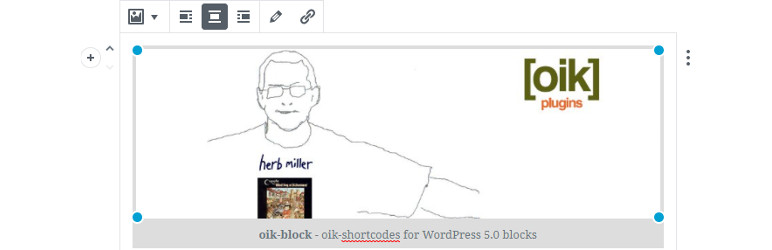
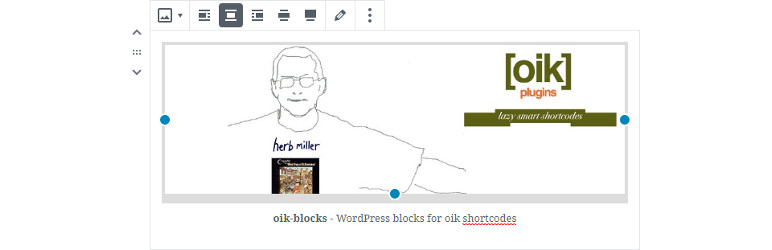
v0.0.0-alpha-20181125

diff --git a/oik-blocks.php b/oik-blocks.php
@@ -5,7 +5,7 @@
  * Description: WordPress Gutenberg blocks for oik shortcodes
  * Author: Herb Miller
  * Author URI: https://herbmiller.me/about/mick
- * Version: 0.0.0-alpha-20181120
+ * Version: 0.0.0-alpha-20181125
  * License: GPL3+
  * License URI: https://www.gnu.org/licenses/gpl-3.0.txt
  *

diff --git a/README.md b/README.md
@@ -4,9 +4,9 @@
 * Donate link: https://www.oik-plugins.com/oik/oik-donate/
 * Tags: gutenberg, shortcode, blocks, oik
 * Requires at least: 4.9.8
-* Tested up to: 5.0-beta5
+* Tested up to: 5.0-RC1
 * Gutenberg compatible: Yes
-* Stable tag: 0.0.0-alpha-20181120
+* Stable tag: 0.0.0-alpha-20181125
 * License: GPLv3 or later
 * License URI: https://www.gnu.org/licenses/gpl-2.0.html
 
@@ -76,10 +76,18 @@ Yes, it's dependent upon a number of other plugins:
 1. oik-blocks's address block
 
 ## Upgrade Notice 
+# 0.0.0-alpha-20181125 
+No longer displays the Preferred editor meta box
+
+
 # 0.0.0-alpha-20181120 
 Forked from oik-block which will now only implement opinions.
 
 ## Changelog 
+# 0.0.0-alpha-20181125 
+* Deleted: Remove preferred editor, opinions and other stuff that'll remain in oik-block https://github.com/bobbingwide/oik-blocks/issues/1
+* Changed: Updated banner and icon assets to oik-blocks
+
 # 0.0.0-alpha-20181120 
 * Added: New plugin for oik-blocks only, cloned from oik-block
 * Changed: oik-block to oik-blocks, and other variations
